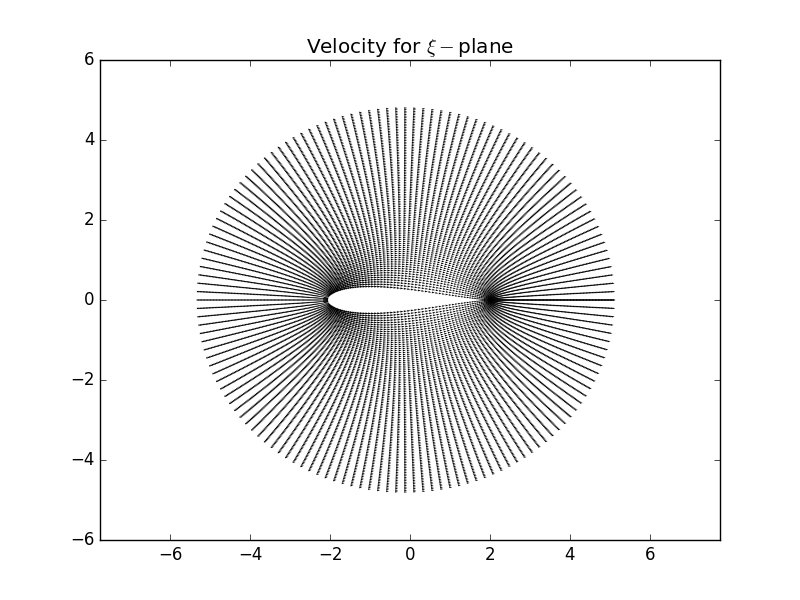
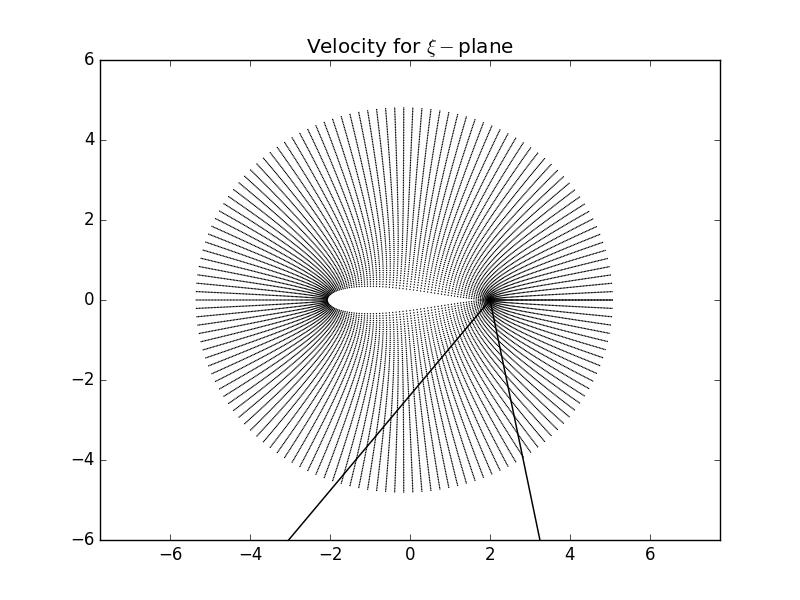
Almost done

Changed region(s): [[0.25, 0.18, 0.7812, 0.84], [0.375, 0.84, 0.4062, 0.87]]

diff --git a/coding-assignments/joukowski/rotation.py b/coding-assignments/joukowski/rotation.py
@@ -5,8 +5,9 @@ import matplotlib.pyplot as plt
 # Airfoil
 
 c = 1
+AOA = 20
 
-xc, yc = -0.14, 0.0
+xc, yc = -0.15, 0
 R = 1.15
 
 # Cylindrical grid
@@ -25,6 +26,21 @@ Y = radial * np.sin(axial.reshape((Nth, 1))) + yc
 u_inf = 1
 
 # Functions
+
+
+def axis_rotation(x, y, xc, yc, AOA):
+    """
+    Originaly the cylinder is at (xc, yc), the axis
+    transformation moves it to the center
+    """
+
+# To radians
+    AOA = AOA * np.pi / 180
+
+    xp = (x - xc) * np.cos(AOA) + (y - yc) * np.sin(AOA)
+    yp = -(x - xc) * np.sin(AOA) + (y - yc) * np.cos(AOA)
+
+    return xp, yp
 
 
 def map_function(z, c):
@@ -120,13 +136,15 @@ if __name__ == '__main__':
 
     # Plot cylindrical grid
 
-    plot_plane(X, Y, title=r'$z-$plane')
+    Xr, Yr = axis_rotation(X, Y, xc, yc, AOA)
+
+    plot_plane(Xr, Yr, title=r'$z-$plane')
     plt.savefig('./images/z-plane.png')
     plt.close()
 
     # Conformal mapping
 
-    z = X + Y * 1j
+    z = X + Y * 1j  # xi is done with z, not z'
 
     xi = map_function(z, c)
 
@@ -137,19 +155,22 @@ if __name__ == '__main__':
     plt.close()
 
     # Doublet
+    # Doublet must be always placed at (0, 0),
+    # and computed in the z-plane, not z'.
+    # The same applies for the velocity
 
     kappa = 2 * np.pi * u_inf * R**2
 
-    u_doublet, v_doublet = get_velocity_doublet(kappa, xc, yc, X, Y)
+    u_doublet, v_doublet = get_velocity_doublet(kappa, 0, 0, Xr, Yr)
 
-    psi_doublet = get_stream_function_doublet(kappa, xc, yc, X, Y)
+    psi_doublet = get_stream_function_doublet(kappa, 0, 0, Xr, Yr)
 
     # Freestream
 
     u_freestream = u_inf * np.ones((Nth, Nr), dtype=float)
     v_freestream = np.zeros((Nth, Nr), dtype=float)
 
-    psi_freestream = u_inf * Y
+    psi_freestream = u_inf * Yr  # At z, not z'
 
     # Cylinder flow
 
@@ -171,7 +192,14 @@ if __name__ == '__main__':
 
     # Airfoil velocity
 
-    z = X + Y * 1j
+    # Velocity vectors need to be rotated back from the z' plane
+    # to the z plane
+    u_cylinder, v_cylinder = axis_rotation(
+        u_cylinder, v_cylinder, 0, 0, AOA)
+
+    z = X + Y * 1j  # xi is done using z not z'
+
+    xi = map_function(z, c)
 
     W = (u_cylinder - v_cylinder * 1j) / (1 - (c / z)**2)
 
@@ -204,6 +232,6 @@ if __name__ == '__main__':
 
     # Questions
 
-    print(kappa)
-    print(u_airfoil[61, 0], v_airfoil[61, 0])
-    print(cp_airfoil.min())
+    print(np.where(cp_airfoil[:, 0] == 1.0))
+    print(u_airfoil[49, 0], v_airfoil[49, 0])
+    print(cp_airfoil[74, 0])
